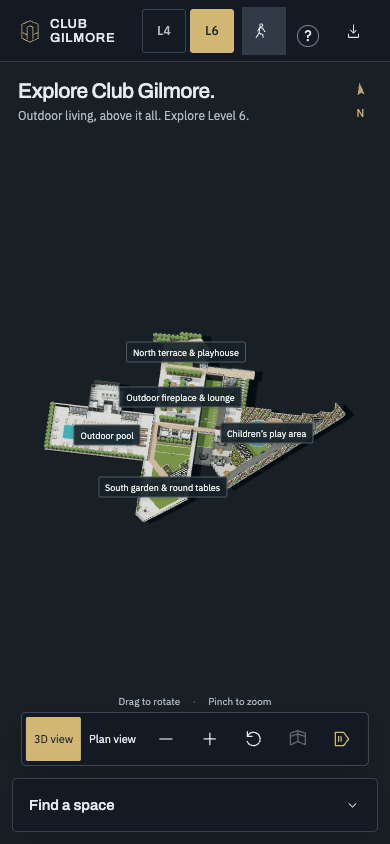
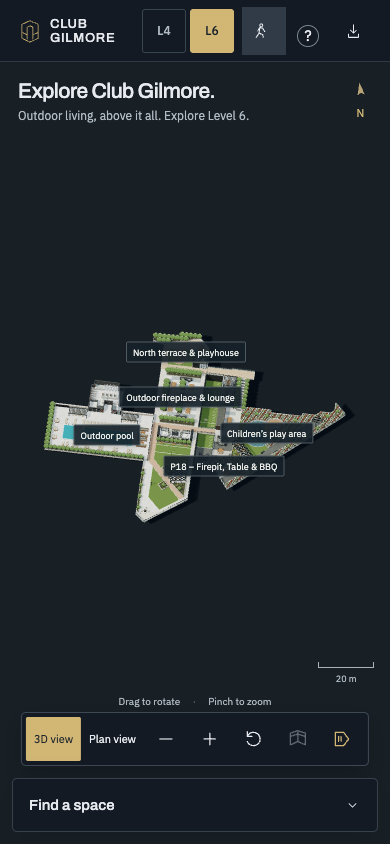
Update Level 6 measurements and scale based on user site measurements; adjust related UI and validation scripts

diff --git a/src/level6.js b/src/level6.js
@@ -4,10 +4,20 @@ import {buildChangeRoom} from './changeRoom.js';
 import {createLevel6Navigation} from './firstPerson/NavigationWorld.js';
 import {box,cyl,rod,mesh,makeGroup,shapeGeometry,sofa,chair,table,tree,mergeRoomGeometry,mats,canvasTexture} from './model.js';
 // Trace coordinates correspond to the supplied overhead render at 1855 × 1344.
-// Scale is illustrative: no measured Level 6 survey was supplied.
-const U=.065;
+// Scale is anchored on the user's 2026-09-12 tape measurements (MODEL-SOURCES.md):
+// a BBQ bay is 15 ft × 150 in with a 100 in gazebo, and the render's three bay
+// tables sit on a 68 px (65.7 trace unit) pitch, so one bay depth plus its gap
+// fixes a trace unit at ~.06 m. Every other deck dimension follows from it.
+const U=.06;
+// Measured on site: gazebo overall height, bay footprint, pool glass height.
+const PERGOLA_H=2.54,BAY_W=4.572/U,BAY_D=3.81/U,FENCE_H=2.032;
+// Posts carry .19 m of beam and slat above them, so they stop short of 2.54.
+const POST_H=PERGOLA_H-.19;
 const world=([x,z])=>[(x-910)*U,(z-670)*U];
 const rect=(x,z,w,d)=>[[x,z],[x+w,z],[x+w,z+d],[x,z+d]];
+// The three BBQ bays are centred on the render's three bay tables (px y
+// 333/401/469), one measured bay deep, leaving a .13 m gap between gazebos.
+const bayZ=[321.7,387.4,453.1],bbqBay=z=>rect(1086-BAY_W/2,z-BAY_D/2,BAY_W,BAY_D);
 const aerial='amenity-deck-aerial.jpg',terrace='bbq-firepit-terrace.jpg';
 const site=n=>`site-${n}.jpg`;
 const room=(id,name,polygon,photos,description,category='Outdoor',extra={})=>({id:`L6-${id}`,name,polygon,photos,description,category,kind:id,bookingUrl:null,...extra});
@@ -28,15 +38,15 @@ export const level6Rooms=[
  room('p18','P18 – Firepit, Table & BBQ',[[1037,815],[1150,815],[1150,839],[1193,882],[1203,891],[1138,962],[1037,867]],['fire-pit-booking-1.jpg','fire-pit-booking-2.jpg','fire-pit-booking-3.jpg','fire-pit-booking-4.jpg'],'P18 combines a fire-pit lounge and BBQ dining space at the south end of the fire pit terrace. Club Gilmore lists a BBQ, fire pit, patio couch and picnic table, with room for sixteen people total: eight in the BBQ space and eight in the fire-pit area. The reservation duration is 2 hours 50 minutes. Striped modular sofas surround a low round fire bowl, beside a curved timber picnic table and a compact stainless-steel grill against the planter.','Social',{bookingUrl:bbqBooking('c9efdb01-612b-46b3-b371-a161fc97bf6b')}),
  room('bbq-north','North terrace & playhouse',[[660,110],[858,38],[916,102],[932,244],[698,244],[698,278],[660,278]],[site(4038),site(4040),site(3985),site(3984),site(3978)],'An open timber play shelter on navy posts sits on a circular tan rubber pad ringed in pale concrete and set into green turf. A vertical timber chime wall and a teal graphic panel run off its gable, with a play counter, steering wheels and low disc seats under the roof. The adjoining dark-clad stair pavilion has a gravel roof, two rooftop vents and a glazed bridge entrance. A picnic table sits beside the pavilion; pale paving and timber-look bands follow the actual terrace.','Social'),
  room('bbq-central','Bocce-side fireplace lounges',rect(690,653,225,113),[site(3992),site(3979),site(3983)],'Two dark stone fireplaces anchor the ends of this terrace beside the bocce lawn. Each lounge has facing grey sofas, two striped armchairs and a low white round table. A dark slatted dining table and six striped chairs sit between the lounges.','Social'),
- room('bbq-1','BBQ 1 – Table & Gazebo',rect(1046,302,80,58),['bbq-1-1.jpg','bbq-1-2.jpg','bbq-1-3.jpg','bbq-1-4.png'],bbqDescription(1),'Social',{bookingUrl:bbqBooking('e19d55a9-ba84-4359-82d4-9bca2c23ee1c')}),
- room('bbq-2','BBQ 2 – Table & Gazebo',rect(1046,363,80,58),['bbq-2-1.jpg','bbq-2-2.jpg','bbq-2-3.png'],bbqDescription(2),'Social',{bookingUrl:bbqBooking('3807e29f-a39b-4a63-9ece-192a29076d3e')}),
- room('bbq-3','BBQ 3 – Table & Gazebo',rect(1046,424,80,58),['bbq-3-1.jpg','bbq-3-2.jpg','bbq-3-3.jpg','bbq-3-4.png'],bbqDescription(3),'Social',{bookingUrl:bbqBooking('2ab1b95c-49b4-4399-9444-db49f5deade3')}),
+ room('bbq-1','BBQ 1 – Table & Gazebo',bbqBay(bayZ[0]),['bbq-1-1.jpg','bbq-1-2.jpg','bbq-1-3.jpg','bbq-1-4.png'],bbqDescription(1),'Social',{bookingUrl:bbqBooking('e19d55a9-ba84-4359-82d4-9bca2c23ee1c')}),
+ room('bbq-2','BBQ 2 – Table & Gazebo',bbqBay(bayZ[1]),['bbq-2-1.jpg','bbq-2-2.jpg','bbq-2-3.png'],bbqDescription(2),'Social',{bookingUrl:bbqBooking('3807e29f-a39b-4a63-9ece-192a29076d3e')}),
+ room('bbq-3','BBQ 3 – Table & Gazebo',bbqBay(bayZ[2]),['bbq-3-1.jpg','bbq-3-2.jpg','bbq-3-3.jpg','bbq-3-4.png'],bbqDescription(3),'Social',{bookingUrl:bbqBooking('2ab1b95c-49b4-4399-9444-db49f5deade3')}),
  room('bbq-south','South garden & round tables',[[660,891],[696,891],[911,1114],[777,1227],[665,1260],[639,1244],[639,987]],[site(4021),site(3991),site(3980),site(3986),aerial],'A broad continuous lawn follows the angled timber walk. Planted beds wrap the slatted pergola, which shelters three round dining tables, each with four individual black chairs. Beyond the walk, one raised square tree planter and a black downlight post stand in the open turf. Perimeter planting and the small fire pit seating area continue toward the southern tip.','Social'),
  room('change','Pool change rooms',[[267,456],[283,456],[283,427],[429,427],[429,452],[461,452],[465,611],[267,611]],[site(4029),site(4034),site(4028),aerial],'The pool change rooms open onto the north side of the sun deck. Outside, the charcoal-tiled facade has a recessed centre entrance, three stainless shower panels, a life ring, dual-height drinking fountains and a frosted storage door beneath a glass canopy. The roofless interior shows an accessible northwest wet room, five north washroom stalls, five west changing cubicles, four central showers opening to the north aisle, a separate two-head standing-shower bay, a three-basin vanity on the east wall, a southeast steam room and an L-shaped southwest storage room with its own door.','Wellness'),
 ];
 export const level6Labels=['pool','hot-tub','lounge','bocce','play','garden','fire','p18','bbq-north','bbq-south','change'].map(id=>`L6-${id}`);
 export function createLevel6Model(){
- const root=new T.Group();root.name='Club Gilmore — Level 6';root.userData={level:6,units:'metres',scale:'Approximate; traced from undimensioned supplied render',source:'User floor plan, overhead render and actual amenity photos'};
+ const root=new T.Group();root.name='Club Gilmore — Level 6';root.userData={level:6,units:'metres',scale:'1 trace unit = .06 m, from the 2026-09-12 on-site measurements',source:'User floor plan, overhead render and actual amenity photos'};
  const props=new T.Group();root.add(props);
  const walkModeGates=[];
  const roomGroups=new Map(),floorMeshes=[],wallGroups=[],columnGroups=[];
@@ -159,8 +169,8 @@ export function createLevel6Model(){
  const poolFence=(a,b)=>{
   const n=Math.max(1,Math.round(Math.hypot(b[0]-a[0],b[1]-a[1])/24));
   const at=t=>[a[0]+(b[0]-a[0])*t,a[1]+(b[1]-a[1])*t];
-  for(let i=0;i<n;i++)line(at(i/n),at((i+1)/n),1.72,fenceGlass,.022,.1);
-  for(let i=0;i<=n;i++){const [x,z]=at(i/n);B(x,z,1.5,1.5,1.86,fencePost);for(const y of [.3,.92,1.54])B(x,z,3.4,3.4,.11,fencePost,y);}
+  for(let i=0;i<n;i++)line(at(i/n),at((i+1)/n),1.9,fenceGlass,.022,.1);
+  for(let i=0;i<=n;i++){const [x,z]=at(i/n);B(x,z,1.5,1.5,FENCE_H,fencePost);for(const y of [.33,1.02,1.71])B(x,z,3.4,3.4,.11,fencePost,y);}
  };
  // The deck's north edge was an open slab edge and left the fence dead-ending
  // at a lone post. The aerial shows a solid concrete parapet there; closing it
@@ -172,13 +182,13 @@ export function createLevel6Model(){
  const poolGate=z=>{
   const g=makeGroup(props,...world([660,z]),Math.PI/2);g.name='Pool enclosure gate';
   walkModeGates.push(g);
-  for(const side of [-1,1])box(g,side*.55,.95,0,.1,1.9,.1,fencePost);
-  for(const y of [.14,1.8])box(g,0,y,0,1.1,.1,.1,fencePost);
-  box(g,0,.97,0,1.02,1.56,.024,fenceGlass);
-  cyl(g,.36,1,.08,.022,1.12,'metal');
+  for(const side of [-1,1])box(g,side*.55,FENCE_H/2,0,.1,FENCE_H,.1,fencePost);
+  for(const y of [.15,1.95])box(g,0,y,0,1.1,.1,.1,fencePost);
+  box(g,0,1.06,0,1.02,1.72,.024,fenceGlass);
+  cyl(g,.36,1.09,.08,.022,1.12,'metal');
  };
  poolGate(680);poolGate(824);
- const pergola=(x,z,w,d,rot=0)=>{const [a,b]=world([x,z]),g=makeGroup(props,a,b,rot);for(const xx of [-1,1])for(const zz of [-1,1])box(g,xx*w*U/2,1.45,zz*d*U/2,.16,2.9,.16,metal);for(const zz of [-1,1])box(g,0,2.91,zz*d*U/2,w*U+.22,.2,.18,metal);for(let xx=-w*U/2;xx<=w*U/2;xx+=.23)box(g,xx,3.02,0,.085,.14,d*U+.25,metal);};
+ const pergola=(x,z,w,d,rot=0)=>{const [a,b]=world([x,z]),g=makeGroup(props,a,b,rot);for(const xx of [-1,1])for(const zz of [-1,1])box(g,xx*w*U/2,POST_H/2,zz*d*U/2,.16,POST_H,.16,metal);for(const zz of [-1,1])box(g,0,POST_H+.01,zz*d*U/2,w*U+.22,.2,.18,metal);for(let xx=-w*U/2;xx<=w*U/2;xx+=.23)box(g,xx,POST_H+.12,0,.085,.14,d*U+.25,metal);};
  pergola(209,641,106,42);pergola(520,641,98,42);
  // IMG_4030: a long black open-cubby unit (2 rows × 17 bays) on a stainless
  // base stands against the north parapet, between the west planter and the
@@ -310,14 +320,14 @@ export function createLevel6Model(){
  // supported bays; no roof member stops in mid-air.
  const southPergola=[[802,1000],[908,921],[908,1019],[820,1034]];
  surface(southPergola,mats.tilefloor,.125);
- for(let i=0;i<4;i++)line(southPergola[i],southPergola[(i+1)%4],.18,metal,.18,2.82);
+ for(let i=0;i<4;i++)line(southPergola[i],southPergola[(i+1)%4],.18,metal,.18,POST_H-.08);
  const lerp=(a,b,t)=>[a[0]+(b[0]-a[0])*t,a[1]+(b[1]-a[1])*t];
  const pergolaSupports=[...southPergola];
  for(const t of [1/3,2/3]){
   const a=lerp(southPergola[0],southPergola[1],t),b=lerp(southPergola[3],southPergola[2],t);
-  line(a,b,.14,metal,.14,2.91);pergolaSupports.push(a,b);
+  line(a,b,.14,metal,.14,POST_H+.01);pergolaSupports.push(a,b);
  }
- for(const [x,z] of pergolaSupports){const [wx,wz]=world([x,z]);box(props,wx,1.45,wz,.16,2.9,.16,metal);}
+ for(const [x,z] of pergolaSupports){const [wx,wz]=world([x,z]);box(props,wx,POST_H/2,wz,.16,POST_H,.16,metal);}
  const rafterLength=Math.hypot(106,79),rafterDirection=[106/rafterLength,-79/rafterLength];
  const rafterNormal=[-rafterDirection[1],rafterDirection[0]];
  const projection=(p,axis)=>p[0]*axis[0]+p[1]*axis[1];
@@ -332,7 +342,7 @@ export function createLevel6Model(){
    if(t>=-1e-6&&t<=1+1e-6){const point=lerp(a,b,t),along=projection(point,rafterDirection);if(!hits.some(h=>Math.abs(h.along-along)<.01))hits.push({point,along});}
   }
   hits.sort((a,b)=>a.along-b.along);
-  if(hits.length>1)line(hits[0].point,hits[hits.length-1].point,.075,metal,.075,2.99);
+  if(hits.length>1)line(hits[0].point,hits[hits.length-1].point,.075,metal,.075,POST_H+.09);
  }
  // level-6-render.png, southeast wedge: a dark timber boardwalk runs the whole
  // diagonal with two raised beds between it and the parapet and one more on the
@@ -394,7 +404,7 @@ export function createLevel6Model(){
  // landed inside the fire-terrace round table's curved benches, 2 against the
  // three-bay pergola's corner post. The rest keep their spacing.
  for(let i=0;i<10;i++){if(i===0||i===2)continue;const t=.05+i*.078,off=i%2?38:80;line(at(t,off),at(t+.028,off),.42,metal,.5,.075);}
- const picnic=(x,z,rot=0)=>{const [a,b]=world([x,z]),g=makeGroup(props,a,b,rot);box(g,0,.78,0,2.4,.09,.95,'oak');for(const xx of [-.8,.8])box(g,xx,.38,0,.18,.72,.65,metal);for(const zz of [-.8,.8]){box(g,0,.46,zz,2.5,.12,.35,'oak');for(const xx of [-.8,.8])box(g,xx,.23,zz,.1,.45,.28,metal);}};
+ const picnic=(x,z,rot=0)=>{const [a,b]=world([x,z]),g=makeGroup(props,a,b,rot);box(g,0,.675,0,2.35,.09,.9,'oak');for(const xx of [-.78,.78])box(g,xx,.315,0,.18,.63,.6,metal);for(const zz of [-.7,.7]){box(g,0,.395,zz,2.45,.09,.35,'oak');for(const xx of [-.78,.78])box(g,xx,.175,zz,.1,.35,.28,metal);}};
  // User correction: nothing sits under the northeast pergola — the picnic table
  // that stood at the end of the walk is removed.
  picnic(880,115,Math.PI/2);
@@ -536,8 +546,8 @@ export function createLevel6Model(){
 
  // User's overhead close-up: three lengthwise dining tables, each with its own
  // grill against the planted (east) edge. Table axes follow the three-bay run.
- for(const z of [331,392,453]){
-  pergola(1086,z,80,58);
+ for(const z of bayZ){
+  pergola(1086,z,BAY_W,BAY_D);
   const [tx,tz]=world([1074,z]),dining=makeGroup(props,tx,tz,Math.PI/2);
   dining.name='Pergola dining table and eight chairs';
   box(dining,0,.78,0,2.15,.09,.96,'oak');
@@ -560,10 +570,10 @@ export function createLevel6Model(){
  const pergolaCenter=[1216.18,763],pergolaAngle=-.832,PU=71,PV=24;
  const pergolaAt=(u,v=0)=>[pergolaCenter[0]+Math.cos(pergolaAngle)*u+Math.sin(pergolaAngle)*v,pergolaCenter[1]-Math.sin(pergolaAngle)*u+Math.cos(pergolaAngle)*v];
  const [pgx,pgz]=world(pergolaCenter),playPergola=makeGroup(props,pgx,pgz,pergolaAngle);playPergola.name='Three-bay playground-side dining pergola';
- for(const u of [-PU,-25,25,PU])for(const v of [-PV,PV])box(playPergola,u*U,1.45,v*U,.16,2.9,.16,metal);
- for(const v of [-PV,PV])box(playPergola,0,2.91,v*U,2*PU*U+.22,.2,.18,metal);
- for(const u of [-PU,-25,25,PU])box(playPergola,u*U,2.91,0,.18,.2,2*PV*U+.22,metal);
- for(const bay of [-50,0,50])for(let u=-20;u<=20;u+=4)box(playPergola,(bay+u)*U,3.02,0,.075,.14,2*PV*U+.25,metal);
+ for(const u of [-PU,-25,25,PU])for(const v of [-PV,PV])box(playPergola,u*U,POST_H/2,v*U,.16,POST_H,.16,metal);
+ for(const v of [-PV,PV])box(playPergola,0,POST_H+.01,v*U,2*PU*U+.22,.2,.18,metal);
+ for(const u of [-PU,-25,25,PU])box(playPergola,u*U,POST_H+.01,0,.18,.2,2*PV*U+.22,metal);
+ for(const bay of [-50,0,50])for(let u=-20;u<=20;u+=4)box(playPergola,(bay+u)*U,POST_H+.12,0,.075,.14,2*PV*U+.25,metal);
  const patioChair=(parent,x,z,rotation=0)=>{const g=makeGroup(parent,x,z,rotation);box(g,0,.43,0,.48,.1,.5,fireFrame);box(g,0,.72,-.22,.48,.52,.08,fireFrame);for(const sx of [-1,1])for(const sz of [-1,1])box(g,sx*.17,.18,sz*.17,.045,.35,.045,fireFrame);};
  // IMG_4009: each table sits across its bay, square to the three-bay run, not
  // end-to-end along it. User correction: the wall-side end chair now meets the

diff --git a/src/firstPerson/NavigationWorld.js b/src/firstPerson/NavigationWorld.js
@@ -2,7 +2,8 @@ import * as THREE from 'three';
 
 // These are deliberately authored from the Level 6 slab outlines, rather than
 // inferred from the room hit areas.  Coordinates below are trace coordinates.
-const SCALE = 0.065;
+// Must match U in level6.js (2026-09-12 measured deck scale).
+const SCALE = 0.06;
 const traceToWorld = ([x, z]) => new THREE.Vector2((x - 910) * SCALE, (z - 670) * SCALE);
 const polygon = points => points.map(traceToWorld);
 const rectangle = (x, z, width, depth) => polygon([[x, z], [x + width, z], [x + width, z + depth], [x, z + depth]]);
@@ -18,7 +19,7 @@ const WALKABLE = [
   rectangle(932,638,105,35),
   polygon([[267,456],[283,456],[283,427],[429,427],[429,452],[461,452],[465,611],[267,611]]),
   // The bridge lands on the main slab at trace x=933 while that slab ends at
-  // x=932.  This one-trace-unit (0.065m) connector closes only that authored
+  // x=932.  This one-trace-unit (0.06m) connector closes only that authored
   // drafting seam; it does not span either light well.
   polygon([[932,274],[933,274],[933,276],[932,276]]),
 ];

diff --git a/src/main.js b/src/main.js
@@ -249,7 +249,7 @@ function updateLevelUI(){
  $('first-person-button').hidden=!model.navigation;
  $('level-4').setAttribute('aria-pressed',String(activeLevel===4));$('level-6').setAttribute('aria-pressed',String(activeLevel===6));
  $('level-meta').textContent=`LEVEL 0${activeLevel}`;document.title=`Club Gilmore · Explore Level ${activeLevel}`;
- $('scale-distance').parentElement.hidden=activeLevel===6;
+ $('scale-distance').parentElement.hidden=false;
  $('reference-links').hidden=activeLevel!==6;
  $('walls').setAttribute('aria-pressed','false');$('walls').disabled=activeLevel===6;
  document.querySelector('.view-heading p').textContent=activeLevel===6?'Outdoor living, above it all. Explore Level 6.':'Find your space. Take a closer look.';

diff --git a/MODEL-SOURCES.md b/MODEL-SOURCES.md
@@ -46,7 +46,7 @@ Specific anchors: study booth 2 L4-80 drawing dimensions are 8 ft 0 7/8 in by 8 
 
 The supplied Level 6 Tower 1/2/3 plan establishes amenity names and relationships. The official amenities page at https://gilmoreplace.com/en/homes/1-gilmore-place/amenities/ corroborates the outdoor pool, hot tub, fireplace/lounge, playground, garden plots, bocce, fire pit and four BBQ areas. Residential tower volumes are omitted, as in the supplied roofless render. Change-room internal partitions are representative interpretations of that render.
 
-No measured Level 6 drawing was supplied. Conversion of 0.065 m per normalized trace pixel is approximate, and the Level 6 metre scale is hidden. Pool dimensions, rail heights, equipment and furniture are illustrative, not survey measurements. The Level 4 confirmed 20 m indoor pool dimension does not apply to the outdoor pool.
+No measured Level 6 drawing was supplied. Conversion of 0.065 m per normalized trace pixel is approximate, and the Level 6 metre scale is hidden. (Superseded by "Measured deck scale", September 12, 2026, below: the conversion is now 0.06 m and the scale bar is shown.) Pool dimensions, rail heights, equipment and furniture are illustrative, not survey measurements. The Level 4 confirmed 20 m indoor pool dimension does not apply to the outdoor pool.
 
 Actual local amenities photography: outdoor-pool, outdoor-pool-sun-deck, bocce-court, bocce-court-and-pool, childrens-playground, bbq-firepit-terrace and amenity-deck-aerial. Seven JPEGs copied from the user-specified amenities/low-res folder. Dedicated photos support pools, bocce and playground. The aerial and general terrace photos support other zones; descriptions identify contextual imagery for the garden and change rooms. No AI-generated photographs are presented as actual site photos.
 
@@ -1288,3 +1288,44 @@ Fees: the `services` data on the PerfectMind pages for P18 and for the P01–P03
 lists a single "Outdoor Seating" price with `Amount` 0 (`DisplayAmountOrAsFree` "Free"), as of
 September 11, 2026. The viewer does not store this. `/api/availability` returns a `fee` value read
 live from the same page, so the detail panel always shows the current fee.
+
+### Measured deck scale — September 12, 2026
+
+The user measured three built elements on Level 6 with a tape and annotated them on renders of
+this model. These are direct site measurements and outrank the render on every dimension they
+touch:
+
+- A BBQ gazebo bay: 15 ft (4.572 m) across, 150 in (3.81 m) deep, column 100 in (2.54 m) to the
+  roof. The user states all the deck's pergolas share that height.
+- A picnic table: 2.35 m long, 1.75 m across the benches, 0.72 m to the top.
+- The pool's glass enclosure: 80 in (2.032 m) high.
+
+**Trace unit.** The bay measurement is what fixes the deck's scale. The three BBQ bays are not
+drawn in the supplied render — it shows one round table per bay — but those three tables sit on a
+68 px pitch (65.7 trace units, render normalized to 1855 × 1344). One measured bay depth plus the
+gap between adjacent gazebos fills that pitch, so a trace unit is 3.81 / 65.7 to 4.0 / 65.7 m.
+`U` is now **0.06 m** (a 3.94 m bay pitch: 3.81 m of bay and a 0.13 m gap), down from the
+illustrative 0.065. The whole deck — slabs, pools, planting, walks, room polygons — shrinks 7.7%
+against the furniture, which was already authored at real sizes.
+
+The 15 ft bay width is a weaker cross-check: at 0.06 it is 76.2 trace units against the 80 that
+were authored for the bays before any measurement existed. The bays now carry the measured
+4.572 × 3.81 m footprint (`BAY_W`/`BAY_D` in `src/level6.js`) on the render's table centres
+(trace z 321.7 / 387.4 / 453.1), which also moved `bbq-1`/`bbq-2`/`bbq-3`'s room polygons.
+
+**Heights.** Every pergola on the deck — the two pool-deck ones, the three BBQ gazebos, the
+south-garden shelter, the northeast walk-end pergola and the three-bay playground-side dining
+pergola — is built to a 2.54 m overall height from one `PERGOLA_H` constant, with `POST_H`
+holding the 0.19 m of beam and slat that sits above the posts. They were 3.09 m. The pool glass
+enclosure and its gates are 2.032 m, up from 1.86 m. The picnic tables are 2.35 × 1.75 m with
+their tops at 0.72 m, from 2.4 × 1.95 m at 0.825 m.
+
+`src/firstPerson/NavigationWorld.js` carries its own copy of the conversion (`SCALE`) for the
+walking-mode floor polygons and was moved to 0.06 with it. Because the deck is now
+measurement-anchored rather than illustrative, `updateLevelUI()` no longer hides the metre scale
+bar on Level 6.
+
+Still unmeasured, and still inference: pool and hot-tub dimensions, deck-edge railing and parapet
+heights, planter and bench sizes, playground equipment, buildings and trees. They scale with the
+trace unit but no tape has been put to them.
+

diff --git a/CLAUDE.md b/CLAUDE.md
@@ -35,7 +35,7 @@ Single-page Vite + Three.js, no framework. `index.html` owns the entire DOM; `ma
 
 ### Level 6 — `src/level6.js` + `src/playground.js`
 
-A separate outdoor deck model with its own coordinate space: trace coords normalized to the supplied 1855 × 1344 overhead render, `U = 0.065` m per unit. **No measured L6 drawing exists** — scale, heights and dimensions are approximate, which is why `updateLevelUI()` hides the metre scale bar on L6. The L4 20 m pool confirmation does not transfer.
+A separate outdoor deck model with its own coordinate space: trace coords normalized to the supplied 1855 × 1344 overhead render, `U = 0.06` m per unit. **No measured L6 drawing exists**, but three site tape measurements (2026-09-12) anchor the scale: a BBQ bay is 15 ft × 150 in, every pergola is 100 in tall (`PERGOLA_H`), a picnic table is 2.35 × 1.75 × 0.72 m and the pool glass is 80 in. `U` follows from the bay depth against the render's bay pitch — see MODEL-SOURCES.md before changing it, and keep `SCALE` in `firstPerson/NavigationWorld.js` equal to it. The L4 20 m pool confirmation does not transfer.
 
 `level6Rooms` entries differ from L4's shape: `kind` is just the id, `category` defaults to `Outdoor`, and each carries an inline `description` string (L4 looks its description up from the `descriptions` map in `main.js` by `kind`). Photos here are full filenames with extensions; L4 photos are bare numbers that `updatePhoto()` suffixes with `.webp`. `playground.js` is split out only because the play equipment geometry is large.
 

diff --git a/QA.md b/QA.md
@@ -409,3 +409,22 @@ PerfectMind. Checks that passed:
 Evidence: `evidence/level6-p18-selected.png`, `evidence/level6-bbq-fee.png`. `verify-level6.cjs`
 has not been re-run. Its hardcoded counts of 13 list items and 13 GLB room ids were already out of
 date before this change, which brings Level 6 to 16 rooms.
+
+### Measured Level 6 scale — September 12, 2026
+
+The trace unit moved from 0.065 m to 0.06 m, the BBQ bays took their measured 4.572 × 3.81 m
+footprint, every pergola dropped to 2.54 m, the picnic tables became 2.35 × 1.75 × 0.72 m and the
+pool glass rose to 2.032 m. Validation run (`node scripts/verify-level6.cjs` against
+`npm run dev`): **PASS**, including a new assertion that reads the `L6-bbq-1` floor mesh back out
+of the built scene and requires 4.572 × 3.81 m in world metres. The run refreshed
+`evidence/level6-pool.png`, `level6-plan.png`, `level6-desktop.png`, `level6-mobile.png`,
+`level6-mobile-detail.png` and `level6-verification.json`, and reported no page errors.
+
+Two assertions in that script were stale before this change and are fixed here: the public list
+and GLB room-id counts are 16, not 13, and `.detail-location strong` now matches the fee row as
+well, so the location line is addressed as `.detail-location:not(#detail-fee-row) strong`.
+
+The plan, sun-deck, BBQ-bay and desktop views were inspected after the rescale and show no
+furniture collisions from the 7.7% deck shrink. The rest of the deck was not walked through at
+close range; anything not listed above remains pending visual validation.
+
